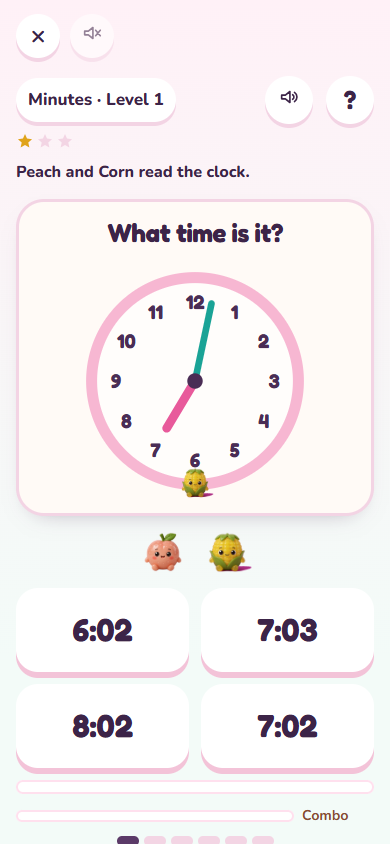
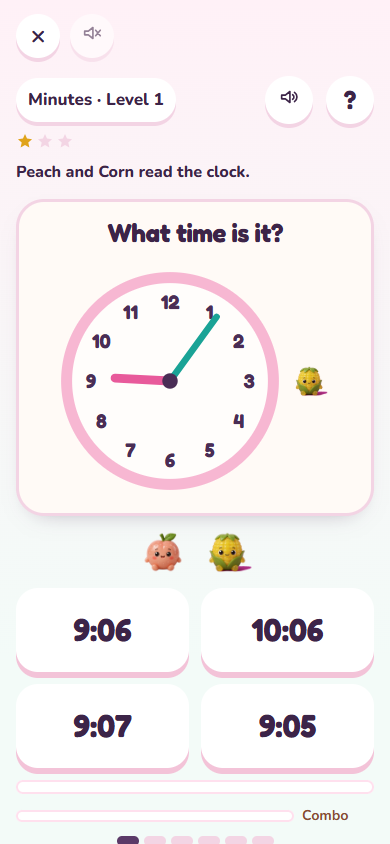
Move the Minutes buddy clear of the clock.
The host sits beside the face in Minutes, in both directions, and the clock stays the same size.

diff --git a/src/academy/academy.css b/src/academy/academy.css
@@ -1398,6 +1398,25 @@ html[lang="ar"] .ac-hello-grades .ac-grade {
   pointer-events: none;
   object-fit: contain;
 }
+/* Minutes only. The pal sits beside the clock, outside the face and the numbers. */
+.ac-stage.is-minute .ac-clock-wrap {
+  display: flex;
+  align-items: center;
+  justify-content: center;
+  gap: 8px;
+  margin-bottom: 8px;
+}
+.ac-stage.is-minute .ac-clock {
+  flex: none;
+  margin: 0;
+}
+.ac-stage.is-minute .ac-clock-pal {
+  position: static;
+  flex: none;
+  left: auto;
+  bottom: auto;
+  transform: none;
+}
 .ac-buddy-row { display: flex; justify-content: flex-end; min-height: 52px; }
 .ac-buddy {
   position: static;

diff --git a/src/academy/ui/play.tsx b/src/academy/ui/play.tsx
@@ -1023,6 +1023,7 @@ export function PlayScreen({
           <div
             className={cx(
               "ac-stage",
+              game === "minute" && "is-minute",
               spec?.layout === "wide" && phase !== "teach" && slot.kind === "choice" && "is-time",
               phase === "feedback" && "is-yes",
               phase === "feedback" && combo >= 3 && "is-glow",
